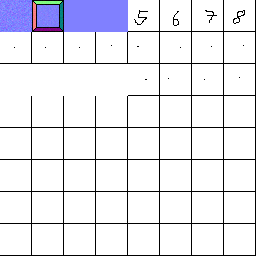
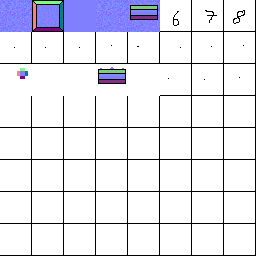
added day-night cycle, chest sprite

diff --git a/Game++ Tile/src/de/nerogar/game/Map.java b/Game++ Tile/src/de/nerogar/game/Map.java
@@ -16,14 +16,17 @@ public class Map {
 	public static final Tile ROCK = new Tile(1, true);
 	public static final Tile TREE = new Tile(2, true);
 	public static final Tile TORCH = new Tile(3, false);
+	public static final Tile CHEST = new Tile(4, true);
 
-	public static final Tile[] TILES = new Tile[] { GRASS, ROCK, TREE, TORCH };
+	public static final Tile[] TILES = new Tile[] { GRASS, ROCK, TREE, TORCH, CHEST };
 
 	private MapShader shader;
 	private EntityPlayer player;
 	private ArrayList<Entity> entities;
 	private ArrayList<Entity> newEntities;
 	private ArrayList<Light> lights;
+	private float playTime;
+	private float dayTime;
 	private String lightString;
 	private int[] tileIDs;
 	private int size;
@@ -66,6 +69,10 @@ public class Map {
 	}
 
 	public void update(float time) {
+		playTime += time;
+		float dayLength = 240f;
+		dayTime = (float) Math.max(Math.sin(playTime * Math.PI * 2 / dayLength), 0.0f);
+
 		for (int i = entities.size() - 1; i >= 0; i--) {
 			if (entities.get(i).removed) {
 				entities.remove(i);
@@ -106,6 +113,7 @@ public class Map {
 		glUniform1f(glGetUniformLocation(shader.shaderHandle, "scale"), tileSize);
 		glUniform1i(glGetUniformLocation(shader.shaderHandle, "colorTex"), 0);
 		glUniform1i(glGetUniformLocation(shader.shaderHandle, "normalTex"), 1);
+		glUniform1f(glGetUniformLocation(shader.shaderHandle, "dayTime"), dayTime);
 
 		float tilesX = (Display.getWidth() / tileSize) + 1f;
 		float tilesY = (Display.getHeight() / tileSize) + 1f;

diff --git a/Game++ Tile/src/de/nerogar/game/MapLoader.java b/Game++ Tile/src/de/nerogar/game/MapLoader.java
@@ -20,6 +20,8 @@ public class MapLoader {
 			return Map.TREE.id;
 		case 0x8080:
 			return Map.TORCH.id;
+		case 0x0080:
+			return Map.CHEST.id;
 
 		default:
 			return Map.GRASS.id;
